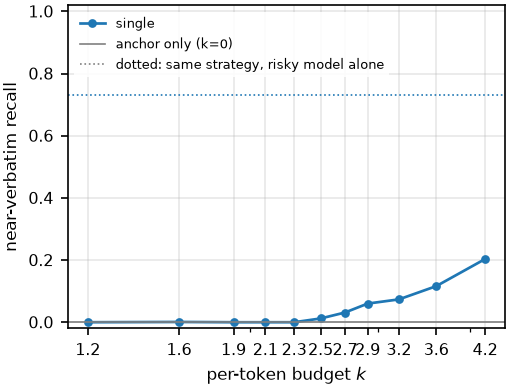
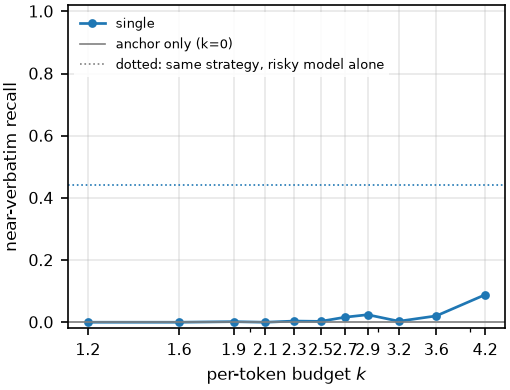
feat-120: preliminary readings, and the grid-ceiling rule fires on Pleias before any band is scored
Naively read, BOTH bands take their worst outcome: band 1 fails (Pleias pred/meas 0.652) and
band 2 inverts (coarse Pleias 1.314 above fine KL3M 1.014). Both rest entirely on the one pair
with a 43.1% bootstrap no-crossing fraction against 0.0% and 0.0%, an onset in the top bracket
and an upper bound 0.056 below the ceiling -- caution (g)'s signature exactly. Its curve never
leaves the noise floor until the last grid point, where it grazes the threshold at 0.012.

The extension is licensed by appendix_seed.tex's rule, cited in this file at 14:27. Grid
{4.6, 5.3, 6.6} fixed BEFORE running, as the ceiling times the same multipliers the KL3M-1.7B
precedent used. Committed too: it cannot rescue either band by fiat -- if the onset holds with
no-crossing at zero, both fail on a clean grid and are reported as failing.

Clean throughout: every k=0 arm 0.000, zero per-trajectory violations in all 33 cells.

diff --git a/results/onset_prediction_bookmia.md b/results/onset_prediction_bookmia.md
@@ -171,3 +171,65 @@ cannot be a decision made after seeing an answer.
 fourth anchor, no fourth corpus. The bands above are the whole of the scoring rule.
 
 ## Scoring log
+
+### Preliminary readings, and why NEITHER band is scored yet, 2026-09-15 21:50
+
+All three sweeps ran on the committed grid. Every pair passes the entry gate on its own **sampled**
+`k=-1` arm, every `k=0` arm reads `0.000` (the anchor alone leaks nothing on BookMIA either), and
+there are **zero per-trajectory violations** across all 33 budgeted cells.
+
+```
+pair            k=-1    k=0    onset   bracket     ratio  95% CI           no-x    pred   pred/meas
+KL3M-520M      0.7326  0.000   2.465  (2.3, 2.5]  1.0138  [0.970, 1.131]   0.0%   2.197    0.891
+Pleias-1.2B    0.1504  0.000   4.006  (3.6, 4.2]  1.3142  [1.004, 1.360]  43.1%   2.614    0.652
+Phi-3.5-mini   0.4425  0.000   2.607  (2.5, 2.7]  0.9920  [0.867, 1.370]   0.0%   2.619    1.004
+```
+
+Read naively this fires band 1's third row (Pleias at `0.652`, outside `[0.7, 1.4]`) and band 2's
+third row (the ordering **inverts** --- coarse-tokenizer Pleias at `1.314` above fine-tokenizer
+KL3M at `1.014`). Those are the two strongest negative outcomes the file commits to, and the paper
+would have to lead with them.
+
+**They are not scored, because both of them rest entirely on the one pair the grid-ceiling rule
+disqualifies.** Pleias-1.2B's bootstrap no-crossing fraction is **43.1%** against `0.0%` and `0.0%`
+for the other two, and its onset lands in the top bracket `(3.6, 4.2]` with an upper bound of
+`4.144`, `0.056` below the ceiling. That is caution (g)'s signature exactly: an interval that is
+narrow *because it is conditioned on the resamples that happened to cross*. Its curve says the same
+thing --- it never leaves the noise floor until the last point:
+
+```
+Pleias-1.2B  1.2:0.000  1.6:0.000  1.9:0.000  2.1:0.000  2.3:0.000  2.5:0.001
+             2.7:0.001  2.9:0.000  3.2:0.006  3.6:0.006  4.2:0.012
+```
+
+It grazes the `0.01` threshold at `k = 4.2` and nowhere else, so "onset `4.006`" is an interpolation
+into the last interval of the grid, not a measurement of where leakage begins.
+
+**The extension is licensed by a rule committed before this arm existed** --- `appendix_seed.tex`'s
+*"extend whenever the no-crossing fraction rises materially above the others, and report both
+grids"*, cited in this file at 14:27 as the single permitted extension. `43.1%` against `0.0%` and
+`0.0%` is that condition. **Committed now, before the extension runs:**
+
+- **Pleias-1.2B only.** The other two are at `0.0%` and are not touched; their readings above stand
+  as final and are not re-run at any grid.
+- **Grid `k in {4.6, 5.3, 6.6}`**, obtained mechanically as the ceiling `4.2` times the same
+  multipliers the KL3M-1.7B precedent used on its own ceiling (`3.2 -> 3.5, 4.0, 5.0`, i.e.
+  `x1.094, x1.25, x1.5625`). Same 100 passages, same seed, same threshold, same `--modes single`.
+  Run into `fineb_pleias12b_ext`, merged into `fineb_pleias12b_full`, **both grids reported**.
+- **What it can change:** the no-crossing fraction, the interval, and whether the point estimate
+  survives. On the one precedent, no-crossing went `4.3% -> 0.0%`, the upper end widened and the
+  onset was **unmoved**; nothing here assumes that repeats.
+- **What it cannot do:** it cannot rescue band 1 or band 2 by fiat. If Pleias' onset holds near
+  `4.0` with the no-crossing at zero, then band 1 fails and band 2 inverts, on a clean grid, and
+  they are reported as failing --- which is what the bands were written for.
+- **What will not happen:** no third grid, no re-threshold, no re-seed, no raising the entry gate
+  after the fact. Pleias' `k=-1` of `0.1504` clears the committed `0.10` and it enters; that it is
+  the weakest of the three is reported as a caveat, never used to exclude it.
+
+**A discrepancy recorded rather than resolved.** The fine-tuner's own post-training check put
+Pleias' sampled recall at `0.457` on 24 *training* excerpts; the sweep's `k=-1` arm on the 100
+swept passages reads `0.1504`. Different sample and different draw, so they are not the same
+quantity, and the gate is the sweep's own `k=-1` (caution (a)). The gap is noted because a weak
+memoriser needs more budget before it can leak, which is the obvious alternative explanation for
+this pair sitting at the top of the grid, and it is not one the extension can settle.
+
